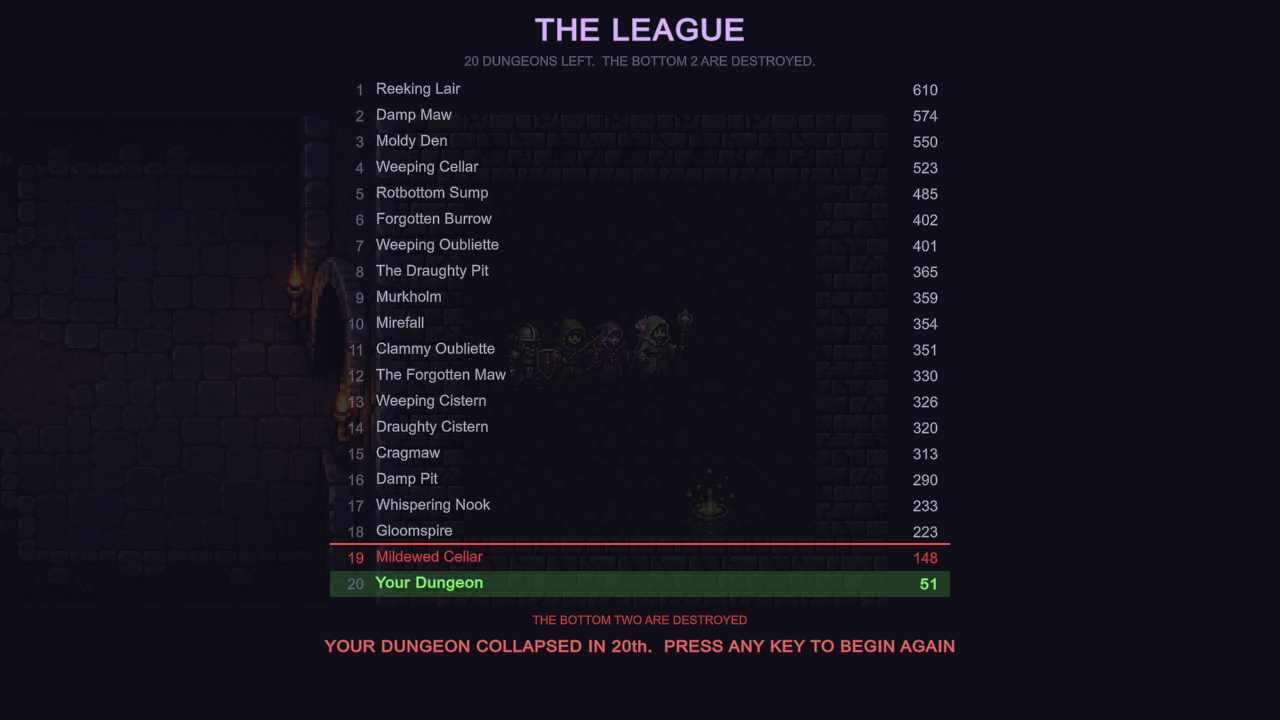
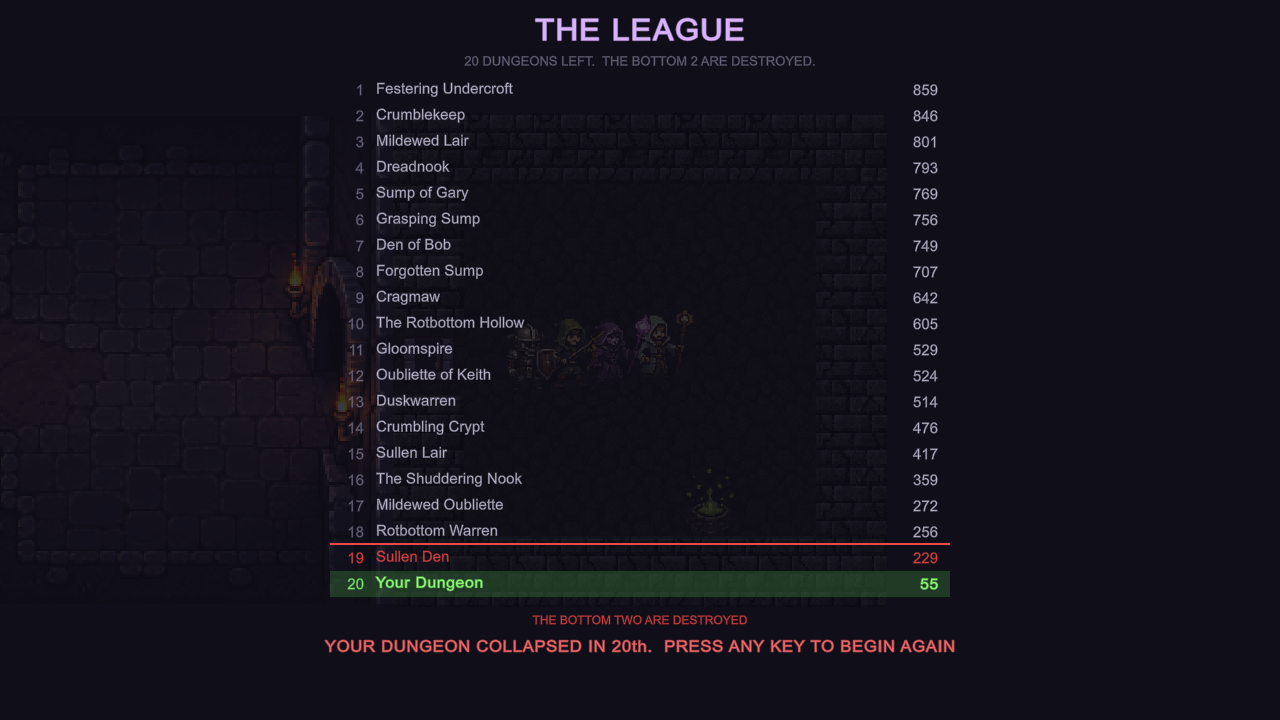
The mid-season standings look test was photographing a raid
TheMidSeasonStandings_ArePhotographed opened with Advance(), and at round zero
Advance calls StartRaid and sets Phase.Raiding. So every frame it ever captured
was the raid HUD with the standings STRIP down the side, and the standings SCREEN
it is named for had never been looked at by anything.

Its assertion could not catch that, because it asked about the league TABLE --
that the field had shrunk -- and never about what was drawn. An instrument
pointed next to its own question, which is the failure this repository keeps
turning up: a percentile read as a maximum, a wall test with no control, a
plot whose resolution hid its subject, and now a look test looking elsewhere.

It reached past the test. Tools/make-itch-art.py builds the store page out of
these frames and this one becomes screenshot-4-the-league-is-an-elimination, so
the itch page's picture of the league was a picture of a raid. Caught while
regenerating the page art, which was itself a day stale and would have shipped
the missing rank number fixed earlier today.

Now waits for the opening card to hand over on its own instead of pressing past
it, asserts IsShowingStandings both before and after the capture, and produces
what it always claimed to: THE LEAGUE at ten dungeons left, the player top, the
red relegation line under eight and the bottom two in red. Marketing art
regenerated from it.

141 game tests green.

Claude-Session: https://claude.ai/code/session_01498wqHsFhU1FgCsAqnWUe7

diff --git a/Assets/Dungeon/Application/Game/Tests/PhaseLookTests.cs b/Assets/Dungeon/Application/Game/Tests/PhaseLookTests.cs
@@ -204,11 +204,29 @@ namespace Dungeon.Game.Tests
         /// photograph as well as a fix: the layout around a shrinking table is full of numbers
         /// written for the size it started at.
         /// </remarks>
+        /// <remarks>
+        /// <b>This photographed a raid for as long as it existed.</b> It opened with
+        /// <c>Advance()</c>, and at round zero <c>Advance</c> calls <c>StartRaid</c> and sets
+        /// <c>Phase.Raiding</c> — so every frame it captured was the raid HUD with the standings
+        /// <i>strip</i> down the side, and the standings <i>screen</i> it is named for was never
+        /// looked at by anything. The assertion could not catch it because it asked about the league
+        /// <b>table</b> — that the field had shrunk — and never about what was drawn. An instrument
+        /// pointed next to its own question, which is the failure this repository keeps finding.
+        /// <para>
+        /// It reached further than the test. <c>Tools/make-itch-art.py</c> builds the store page from
+        /// these frames, and this one becomes <c>screenshot-4-the-league-is-an-elimination</c> — so
+        /// the itch page's picture of the league was a picture of a raid.
+        /// </para>
+        /// </remarks>
         [Test]
         public async UniTask TheMidSeasonStandings_ArePhotographed(CancellationToken ct)
         {
-            _game.Advance();
-            await UniTask.Yield(ct);
+            // Wait the opening card out rather than pressing past it: Advance() would start a raid,
+            // and the standings are where the game arrives on its own.
+            await UniTask.WaitForSeconds(LoadingScreen.Seconds + 2f, cancellationToken: ct);
+
+            Assert.IsTrue(_game.IsShowingStandings,
+                "the game should have reached the standings by itself before this photographs them");
 
             // A strong player, five rounds in: the field is half gone and the player is top.
             for (int round = 0; round < 5 && _game.League.Entries.Count > 6; round++)
@@ -231,6 +249,12 @@ namespace Dungeon.Game.Tests
 
             Assert.Less(_game.League.Entries.Count, LeagueTable.Size,
                 "the field never shrank, so this photographed the opening table");
+
+            // The check the original was missing, and the reason it drifted unnoticed for so long:
+            // the one above asks about the league, and this asks about the screen.
+            Assert.IsTrue(_game.IsShowingStandings,
+                "the game left the standings before the frame was taken, so this photographed some "
+                + "other screen -- which is exactly what it did while it opened with Advance()");
         }
 
         /// <summary>
